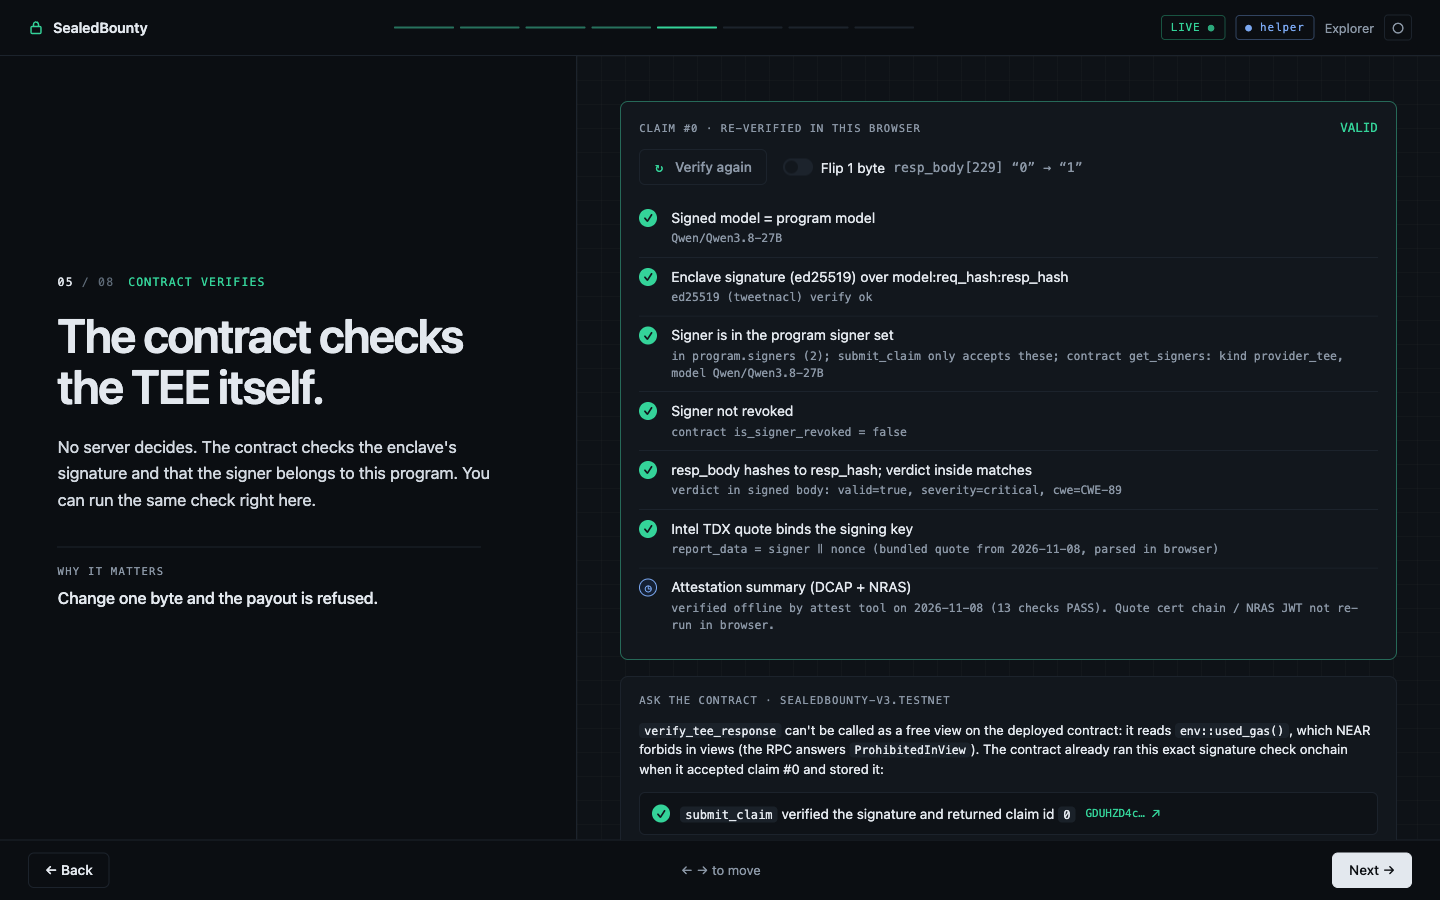
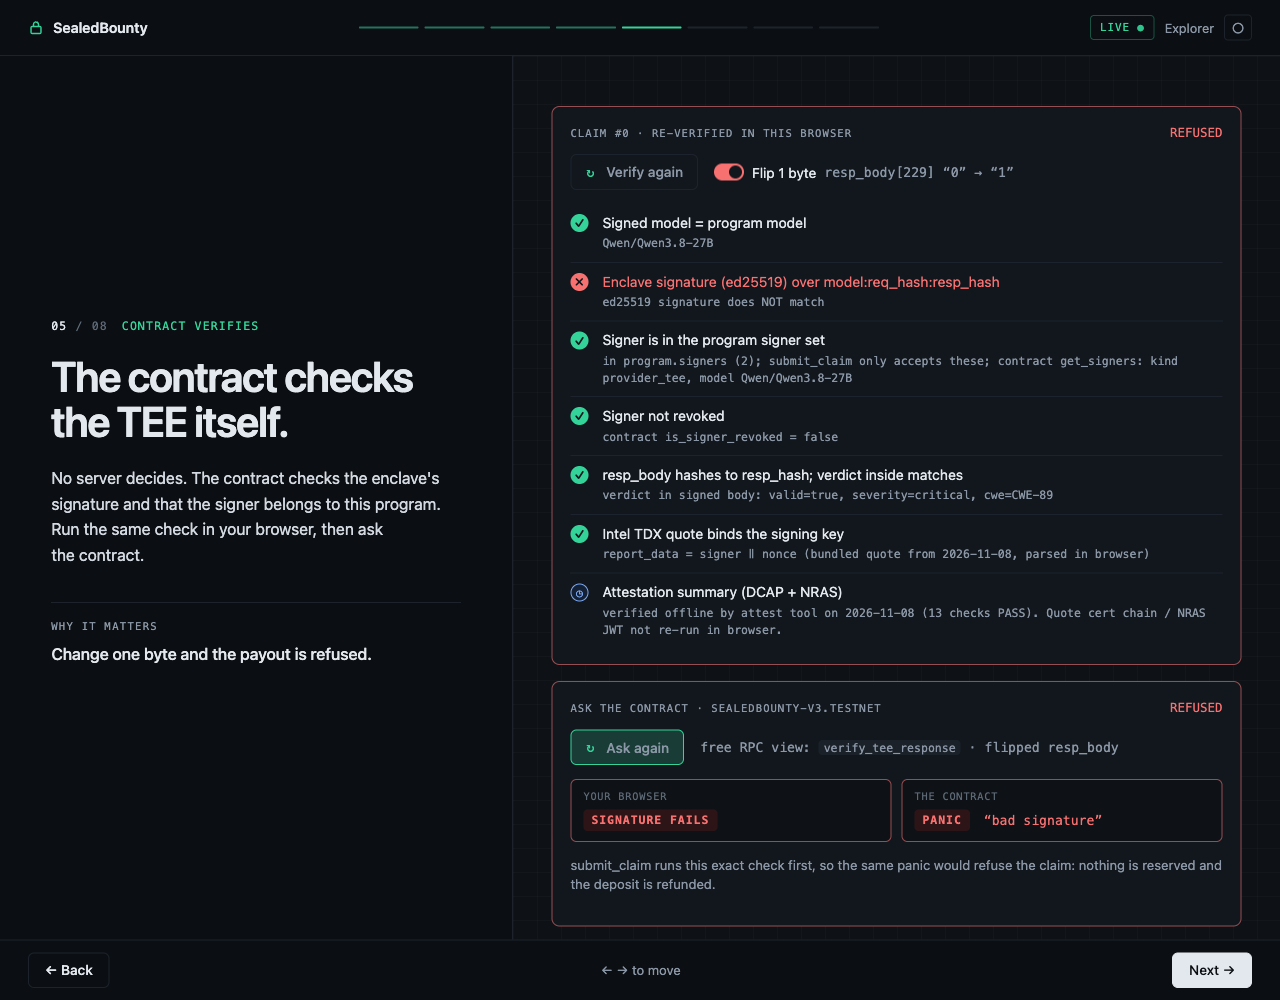
feat(tour): ask the contract - free verify_tee_response view in step 5
askContract (tourData) sends claim #0's submit_claim args to the
deployed contract as an RPC call_function: Verdict on success, the
GuestPanic text ("bad signature") on a 1-byte flip, snapshot answer
flagged SNAPSHOT when the RPC is unreachable. Step 5 shows the
contract's verdict next to the browser's; flipping re-asks so both go
red. Drops the ProhibitedInView explanation (contract fixed and
redeployed). Autoplay gains ask-contract; scorecard gains ask-contract
and flip-contract rows.

Claude-Session: https://claude.ai/code/session_012KjTXk3szV4zP9BuBFp2zp

diff --git a/web/src/tour/steps/Step5.tsx b/web/src/tour/steps/Step5.tsx
@@ -1,24 +1,21 @@
 // Step 5 — Contract verifies. 'Verify in browser' runs verifyClaim (lib/checks.ts: signature, program signer set,
 // revocation, TDX quote binding, attestation summary) on claim #0 with the resp_body from its submit_claim args.
-// 'Flip 1 byte' flips one byte of resp_body (confidence 100 → 101) and re-runs: the contract would recompute
-// resp_hash from the body, so the signature no longer verifies.
-//
-// 'Ask the contract' (spec §5): verify_tee_response cannot run as an RPC view on the deployed wasm — it calls
-// env::used_gas(), which NEAR prohibits in views (RPC: ProhibitedInView { method_name: "used_gas" }). The pane says so
-// and points at the submit_claim receipt, where the contract ran the same signature check itself.
-import { useMemo, useState } from 'react';
+// 'Ask the contract' (spec §5) sends the same submit_claim args to the deployed contract as a free RPC view
+// (verify_tee_response): it returns its own Verdict, or panics "bad signature". 'Flip 1 byte' flips one byte of
+// resp_body (confidence 100 → 101) and re-runs both: the signature no longer verifies in the browser or onchain.
+import { useMemo, useRef, useState } from 'react';
 import { decodeBase64, encodeBase64 } from 'ethers';
 import { verifyClaim, type Check } from '../../lib/checks';
 import { CONTRACT_ID } from '../../lib/near';
 import { sha256hex } from '../../lib/verify';
 import { useRestore, useTour, useTourAction } from '../TourContext';
-import { claimTxs } from '../tourData';
+import { askContract, askContractArgs, claimTxs, type AskResult } from '../tourData';
 import { CheckList, Exhibit, HeroButton, TxLink, type CheckItem } from '../ui';
 
 export const step5 = {
   kicker: 'Contract verifies',
   headline: 'The contract checks the TEE itself.',
-  body: "No server decides. The contract checks the enclave's signature and that the signer belongs to this program. You can run the same check right here.",
+  body: "No server decides. The contract checks the enclave's signature and that the signer belongs to this program. Run the same check in your browser, then ask the contract.",
   why: 'Change one byte and the payout is refused.',
 };
 
@@ -41,6 +38,8 @@ const SHORT: Record<string, string> = {
   'Intel TDX DCAP + NVIDIA NRAS verdict': 'Attestation summary (DCAP + NRAS)',
 };
 
+type Ask = (AskResult & { flipped: boolean }) | null;
+
 export function Step5() {
   const { data, setResult } = useTour();
   const claim = data.claims.find((c) => c.id === 0)!;
@@ -48,6 +47,9 @@ export function Step5() {
   const respB64 = txs.submit?.args?.resp_body as string | undefined;
   const [runId, setRunId] = useState(0);
   const [flipped, setFlipped] = useState(false);
+  const [ask, setAsk] = useState<Ask>(null);
+  const [asking, setAsking] = useState(false);
+  const askSeq = useRef(0);
 
   const flip = useMemo(() => {
     if (!respB64) return null;
@@ -75,17 +77,36 @@ export function Step5() {
     const res = verifyClaim(claim, data.program, data.signers, { respBodyB64: respB64, signersSource: 'contract', revoked: data.revoked });
     setResult('verify-browser', !res.some((x) => x.status === 'fail'), 'TEE signature + signer set re-verified in your browser');
   };
+
+  /** RPC call_function verify_tee_response with claim #0's submit_claim args (flipped body when the switch is on). */
+  const askNow = async (withFlip: boolean) => {
+    if (!txs.submit) return;
+    const seq = ++askSeq.current;
+    setAsking(true);
+    const r = await askContract(askContractArgs(claim, txs.submit, withFlip && flip ? flip.b64 : undefined));
+    if (seq !== askSeq.current) return; // a newer ask (flip toggled) superseded this one
+    setAsk({ ...r, flipped: withFlip });
+    setAsking(false);
+    if (!withFlip) setResult('ask-contract', r.ok, r.ok ? `The contract itself returned claim #0's verdict (${r.verdict.severity}, free view)` : `The contract refused claim #0: ${r.error}`);
+    else if (!r.ok) setResult('flip-contract', true, `The contract refused the 1-byte edit: "${r.error}"`);
+  };
+  const askClick = () => askNow(flipped);
+
   const setFlip = (on: boolean) => {
     setFlipped(on);
     setRunId((n) => n + 1);
-    if (on) setResult('flip-byte', true, 'A 1-byte edit broke the signature (payout refused)');
+    if (on) setResult('flip-byte', true, 'A 1-byte edit broke the signature in your browser');
+    if (ask || asking) void askNow(on); // keep the contract's answer in step with the body it was asked about
   };
   useTourAction('verify-browser', verify);
+  useTourAction('ask-contract', askClick);
   useTourAction('flip-on', () => setFlip(true));
   useTourAction('flip-off', () => setFlip(false));
   useRestore('verify-browser', verify);
+  useRestore('ask-contract', askClick);
 
   const items: CheckItem[] = checks.map((x) => ({ label: SHORT[x.label] ?? x.label, status: x.status, detail: x.detail }));
+  const contractBad = ask ? !ask.ok : false;
 
   return (
     <div className="stack">
@@ -113,21 +134,65 @@ export function Step5() {
         {runId > 0 ? <CheckList items={items} runId={runId} /> : <p className="muted ghost-copy">Runs the same checks the contract runs, with tweetnacl and the bundled TDX quote. No server involved.</p>}
       </Exhibit>
 
-      <Exhibit label={`ask the contract · ${CONTRACT_ID}`}>
-        <p className="small">
-          <code>verify_tee_response</code> can't be called as a free view on the deployed contract: it reads <code>env::used_gas()</code>, which NEAR forbids in
-          views (the RPC answers <code>ProhibitedInView</code>). The contract already ran this exact signature check onchain when it accepted claim #0 and
-          stored it:
-        </p>
-        <div className="onchain-ok">
-          <span className="icon icon-pass">✓</span>
-          <span>
-            <code>submit_claim</code> verified the signature and returned claim id <code>0</code>
+      <Exhibit
+        label={`ask the contract · ${CONTRACT_ID}`}
+        tone={ask ? (contractBad ? 'bad' : 'ok') : undefined}
+        meta={ask ? <span className={contractBad ? 'bad mono' : 'okc mono'}>{contractBad ? 'REFUSED' : 'VALID'}</span> : null}
+      >
+        <div className="row-actions">
+          <HeroButton onClick={askClick} busy={asking} done={!!ask && !asking} disabled={!txs.submit}>
+            {ask ? 'Ask again' : 'Ask the contract'}
+          </HeroButton>
+          <span className="mono small muted">
+            free RPC view: <code>verify_tee_response</code>
+            {flipped ? ' · flipped resp_body' : ''}
           </span>
-          <TxLink hash={txs.submit?.hash} />
         </div>
-        {flipped && (
-          <p className="small bad mono">With the flipped byte, the same call would panic: “bad signature”. Nothing is reserved, and the deposit is refunded.</p>
+        <div className="askcmp">
+          <div className={`askcol ${runId ? (failed ? 'askcol-bad' : 'askcol-ok') : ''}`}>
+            <p className="cap">your browser</p>
+            {runId ? (
+              <span className={`vchip ${failed ? 'vchip-bad' : 'vchip-ok'}`}>{failed ? 'signature fails' : 'signature valid'}</span>
+            ) : (
+              <span className="muted small">not run yet</span>
+            )}
+          </div>
+          <div className={`askcol ${ask ? (contractBad ? 'askcol-bad' : 'askcol-ok') : ''}`} data-testid="contract-verdict">
+            <p className="cap">the contract</p>
+            {asking && !ask ? (
+              <span className="muted small">asking…</span>
+            ) : ask?.ok ? (
+              <span className="verdict">
+                <span className="vchip vchip-ok">valid</span>
+                <span className="mono small">
+                  {ask.verdict.severity} · {ask.verdict.cwe ?? 'no CWE'} · confidence {ask.verdict.confidence}
+                </span>
+              </span>
+            ) : ask ? (
+              <span className="verdict">
+                <span className="vchip vchip-bad">panic</span>
+                <span className="mono small bad">“{ask.error}”</span>
+              </span>
+            ) : (
+              <span className="muted small">not asked yet</span>
+            )}
+            {ask?.source === 'snapshot' && (
+              <p className="readout readout-snap" title={ask.rpcError ?? ''}>
+                SNAPSHOT · RPC unreachable, showing the recorded answer
+              </p>
+            )}
+          </div>
+        </div>
+        {ask && !ask.ok ? (
+          <p className="small muted">submit_claim runs this exact check first, so the same panic would refuse the claim: nothing is reserved and the deposit is refunded.</p>
+        ) : (
+          <div className="onchain-ok">
+            <span className="icon icon-pass">✓</span>
+            <span>
+              <code>submit_claim</code> ran the same check onchain and stored claim <code>0</code>
+            </span>
+            <TxLink hash={txs.submit?.hash} />
+          </div>
         )}
       </Exhibit>
     </div>

diff --git a/web/src/tour/tourData.ts b/web/src/tour/tourData.ts
@@ -11,16 +11,19 @@ import {
   getRevoked,
   getSigners,
   listContractTxs,
+  panicMessage,
   parseClaim,
   parseProgram,
   RPC_URLS,
   rpcTx,
+  verifyTeeResponse,
   type DecodedTx,
   type NbTxRow,
   type RpcOpts,
+  type VerifyTeeArgs,
 } from '../lib/near';
 import { auditRequest, type RequestAudit } from '../lib/requestChecks';
-import type { Claim, Program, SignerEntry } from '../lib/types';
+import type { Claim, Program, SignerEntry, Verdict } from '../lib/types';
 import { normaliseSigners, sha256hex } from '../lib/verify';
 import { nsToMs } from '../lib/format';
 
@@ -296,4 +299,65 @@ export async function loadTxs(claims: Claim[]): Promise<LoadResult<DecodedTx[]>>
     .filter((t): t is DecodedTx => !!t && (t.claimIds.some((id) => ids.has(id)) || (t.method === 'submit_claim' && reqs.has(String(t.args?.req_hash ?? '').toLowerCase()))))
     .sort((a, b) => (BigInt(a.blockTimestamp ?? '0') < BigInt(b.blockTimestamp ?? '0') ? -1 : 1));
   return { data: txs, ...combine([rows, ...results]) };
+}
+
+// ---- step 5 'Ask the contract': a free RPC view of verify_tee_response ----
+
+/** verify_tee_response args from a claim's submit_claim tx (resp_body overridable: the flipped-byte variant). */
+export function askContractArgs(claim: Claim, submit: DecodedTx, respBodyB64?: string): VerifyTeeArgs {
+  const a = submit.args ?? {};
+  return {
+    model: claim.model,
+    req_hash: String(a.req_hash ?? claim.req_hash),
+    resp_body: respBodyB64 ?? String(a.resp_body ?? ''),
+    signature: String(a.signature ?? claim.signature),
+    signer: String(a.signer ?? claim.signer),
+    kind: String(a.kind ?? claim.kind),
+  };
+}
+
+type AskAnswer = { ok: true; verdict: Verdict } | { ok: false; error: string };
+export type AskResult = AskAnswer & {
+  /** 'snapshot': the RPC was unreachable and the answer is the recorded one (rpcError says why). */
+  source: Source;
+  rpcError: string | null;
+};
+
+const b64Bytes = (b: string): Uint8Array | null => {
+  try {
+    return Uint8Array.from(atob(b), (c) => c.charCodeAt(0));
+  } catch {
+    return null;
+  }
+};
+
+/**
+ * Snapshot answer: the contract accepted this exact (req_hash, resp_body, signature, signer) in a recorded
+ * submit_claim, so it returns that claim's stored verdict; any other body breaks the signature → "bad signature".
+ */
+function snapshotAnswer(args: VerifyTeeArgs): AskAnswer {
+  const body = b64Bytes(args.resp_body);
+  const h = body ? sha256hex(body) : null;
+  const c = snapshotData().claims.find(
+    (c) => c.req_hash === args.req_hash.toLowerCase() && c.resp_hash === h && c.signature === args.signature.toLowerCase() && c.signer === args.signer,
+  );
+  return c ? { ok: true, verdict: c.verdict } : { ok: false, error: 'bad signature' };
+}
+
+/** Asks the deployed contract (RPC call_function: no wallet, no gas). A panic is an answer; a transport failure → snapshot. */
+export async function askContract(args: VerifyTeeArgs, rpc: RpcOpts = TOUR_RPC): Promise<AskResult> {
+  const r = await withFallback<AskAnswer>(
+    async () => {
+      try {
+        return { ok: true, verdict: await verifyTeeResponse(args, rpc) };
+      } catch (e) {
+        const panic = panicMessage(e);
+        if (panic !== null) return { ok: false, error: panic };
+        throw e;
+      }
+    },
+    snapshotAnswer(args),
+    rpc.timeoutMs ?? TOUR_TIMEOUT_MS,
+  );
+  return { ...r.data, source: r.source, rpcError: r.error };
 }

diff --git a/web/src/lib/near.ts b/web/src/lib/near.ts
@@ -50,7 +50,12 @@ async function viewAt<T>(url: string, method: string, args: Record<string, unkno
   });
   if (!res.ok) throw new Error(`RPC HTTP ${res.status}`);
   const j = await res.json();
-  if (j.error) throw new Error(j.error?.cause?.name || j.error?.data || j.error?.message || 'RPC error');
+  if (j.error) {
+    const data = typeof j.error?.data === 'string' ? j.error.data : '';
+    const vm = String(j.error?.cause?.info?.vm_error ?? '');
+    // Keep the panic text when there is one, so callers can show "bad signature" (see panicMessage).
+    throw new Error([vm, data].find((s) => /GuestPanic/.test(s)) || j.error?.cause?.name || data || j.error?.message || 'RPC error');
+  }
   if (j.result?.error) throw new Error(j.result.error);
   const bytes = new Uint8Array(j.result.result as number[]);
   return JSON.parse(new TextDecoder().decode(bytes)) as T;
@@ -209,6 +214,29 @@ export const getClaim = async (id: number, opts?: RpcOpts) => {
   return r == null ? null : parseClaim(r);
 };
 export const getOwner = () => view<string>('get_owner');
+
+/** verify_tee_response view args: the TEE fields of a submit_claim, plus the signed model. */
+export interface VerifyTeeArgs {
+  model: string;
+  req_hash: string;
+  /** base64 */
+  resp_body: string;
+  /** hex */
+  signature: string;
+  /** "ed25519:<hex>" */
+  signer: string;
+  kind: string;
+}
+
+/** The contract's panic text from an RPC error ("...GuestPanic { panic_msg: \"bad signature\" }" → "bad signature"), else null. */
+export function panicMessage(e: unknown): string | null {
+  const m = /GuestPanic\s*\{\s*panic_msg:\s*\\?"((?:[^"\\]|\\.)*?)\\?"\s*\}/.exec(String((e as Error)?.message ?? e));
+  return m ? m[1] : null;
+}
+
+/** Free RPC view: the contract re-runs its TEE signature check and returns the Verdict, or panics (thrown). */
+export const verifyTeeResponse = (args: VerifyTeeArgs, opts?: RpcOpts) =>
+  view<Claim['verdict']>('verify_tee_response', args as unknown as Record<string, unknown>, opts);
 /** v3 #6: is_signer_revoked for each signer. Returns null if the view is unavailable (pre-v3 contract, RPC down). */
 export async function getRevoked(signers: string[], opts?: RpcOpts & { strict?: boolean }): Promise<Set<string> | null> {
   try {

diff --git a/web/src/tour/tour.css b/web/src/tour/tour.css
@@ -227,6 +227,13 @@
 .flip input:focus-visible + .flip-k { outline: 2px solid var(--accent); outline-offset: 2px; }
 .onchain-ok { display: flex; align-items: center; gap: 8px 10px; flex-wrap: wrap; font-size: 0.86rem; padding: 10px 12px; border-radius: 6px; background: var(--surface-2); border: 1px solid var(--line); }
 .onchain-ok .icon { margin: 0; }
+.askcmp { display: grid; grid-template-columns: repeat(auto-fit, minmax(200px, 1fr)); gap: 10px; margin-bottom: 12px; }
+.askcol { padding: 10px 12px; border-radius: 6px; border: 1px solid var(--line); background: var(--surface-2); min-width: 0; display: grid; gap: 6px; align-content: start; transition: border-color var(--t-fade) var(--ease-out); }
+.askcol .cap { margin: 0; }
+.askcol > .vchip { justify-self: start; }
+.askcol-ok { border-color: color-mix(in srgb, var(--ok) 40%, var(--line)); }
+.askcol-bad { border-color: color-mix(in srgb, var(--bad) 55%, var(--line)); }
+.askcol .readout { margin: 0; }
 
 /* ---- step 6 ---- */
 .reveal { display: grid; gap: 10px; animation: fadein 300ms var(--ease-out); }

diff --git a/web/src/tour/steps/Step8.tsx b/web/src/tour/steps/Step8.tsx
@@ -17,7 +17,9 @@ const SCORE: { key: string; label: string; step: number; live?: boolean }[] = [
   { key: 'load-program', label: 'Program 1 read from testnet', step: 3 },
   { key: 'encrypt', label: 'Report encrypted to the owner key', step: 4 },
   { key: 'verify-browser', label: 'TEE signature re-verified in your browser', step: 5 },
-  { key: 'flip-byte', label: 'A 1-byte edit refused', step: 5 },
+  { key: 'ask-contract', label: 'The contract re-verified claim #0 (free view)', step: 5 },
+  { key: 'flip-byte', label: 'A 1-byte edit refused in your browser', step: 5 },
+  { key: 'flip-contract', label: 'A 1-byte edit refused by the contract', step: 5 },
   { key: 'decrypt', label: 'Claim #0 decrypted; hash matches', step: 6 },
   { key: 'audit0', label: 'Six dispute checks pass on claim #0', step: 6 },
   { key: 'gauntlet-1', label: '#1 params tampered, recomputed', step: 7 },

diff --git a/web/src/tour/autoplay.ts b/web/src/tour/autoplay.ts
@@ -7,6 +7,7 @@ export type ActionKey =
   | 'load-program'
   | 'encrypt'
   | 'verify-browser'
+  | 'ask-contract'
   | 'flip-on'
   | 'flip-off'
   | 'decrypt'
@@ -49,9 +50,11 @@ export const TIMELINE: TimelineStep[] = [
     step: 5,
     dwell: 18_000,
     actions: [
-      { at: 2_500, action: 'verify-browser' },
-      { at: 9_000, action: 'flip-on' },
-      { at: 14_500, action: 'flip-off' },
+      { at: 2_000, action: 'verify-browser' },
+      { at: 5_500, action: 'ask-contract' },
+      // flipping re-runs the browser check and re-asks the contract with the flipped body ("bad signature")
+      { at: 9_500, action: 'flip-on' },
+      { at: 15_000, action: 'flip-off' },
     ],
   },
   {
